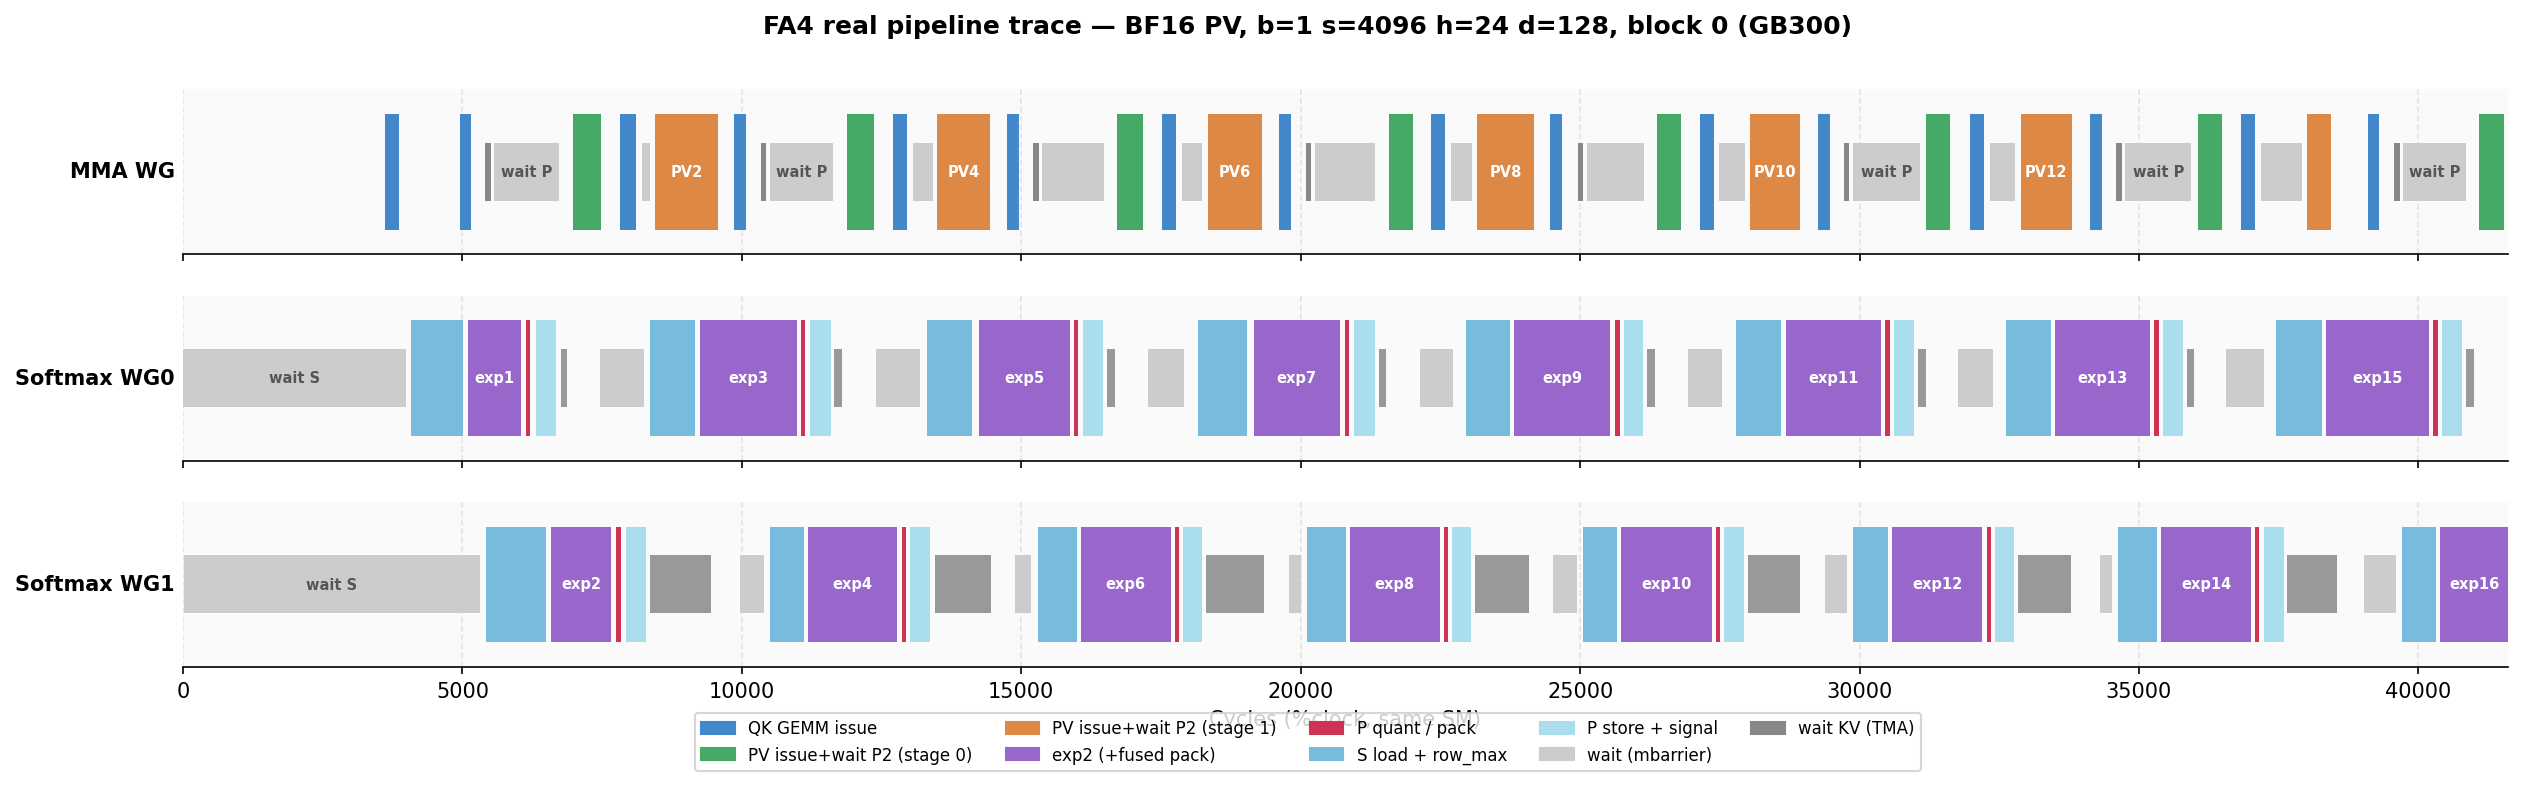
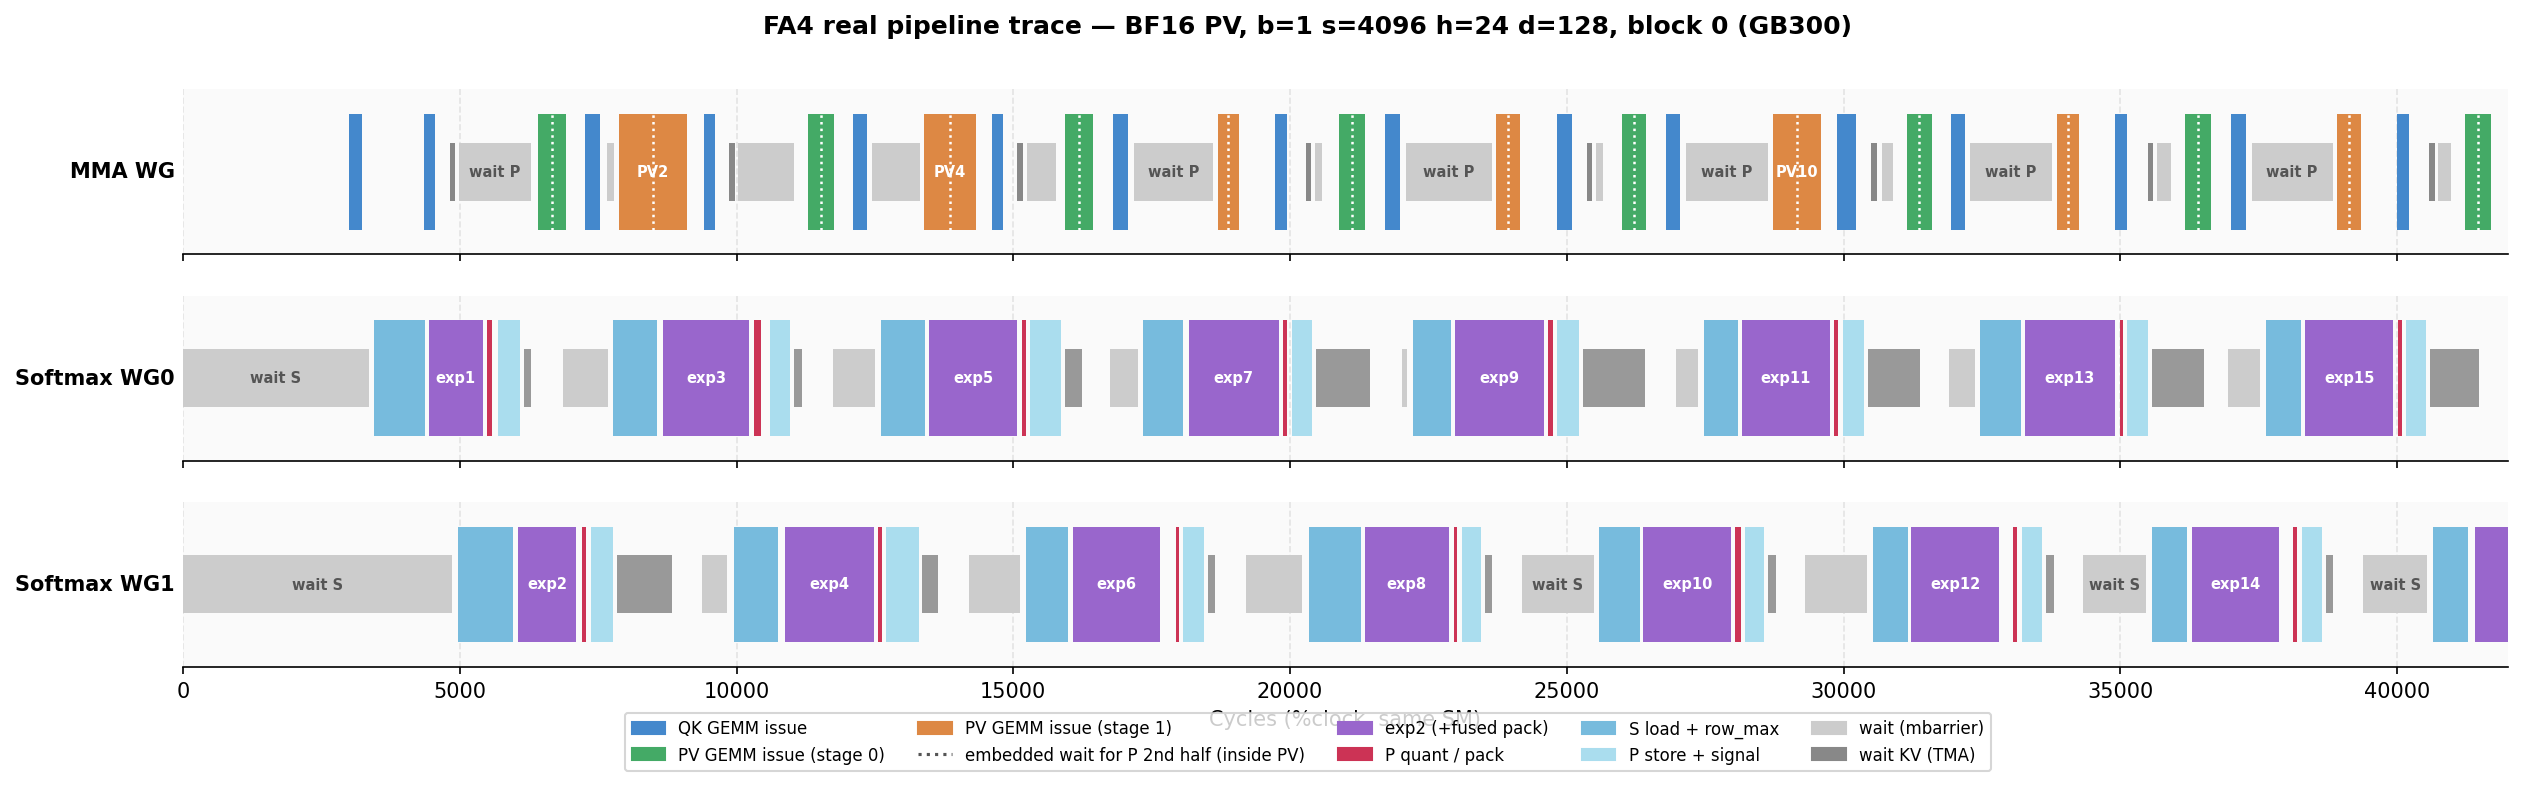
fix: trace render — PV bars keep plain labels, dotted mid-bar wait marker
PV legend reverts to "PV GEMM issue"; a white dotted divider at each PV
bar's midpoint marks the embedded wait for P's 2nd half (mbar_P_full_2
inside gemm_ptx_partial), with a legend entry explaining it.

diff --git a/flash_attn/cute/debug/trace_pipeline.py b/flash_attn/cute/debug/trace_pipeline.py
@@ -177,6 +177,13 @@ def render(spans_by_bg, block, output_path, title, start_iter, num_iters):
                 facecolor=color, edgecolor="none",
                 zorder=2 if is_wait else 3,
             ))
+            if grp == fa4_prof.GRP_MMA and evt == fa4_prof.EVT_PV_GEMM:
+                # Mid-bar dotted divider: the PV issue sequence embeds a wait
+                # for the 2nd half of P (mbar_P_full_2 in gemm_ptx_partial)
+                # roughly here — long PV bars are that wait, not a slower GEMM.
+                cx = vis_start - w0 + vis_dur / 2
+                ax.plot([cx, cx], [0.5 - h / 2, 0.5 + h / 2],
+                        linestyle=":", color="white", linewidth=1.2, zorder=5)
             # Label only when the bar is wide enough for the text
             # (~2550 usable px at figsize 20in x 150dpi).
             bar_px = vis_dur * 2550.0 / (w1 - w0)
@@ -191,13 +198,13 @@ def render(spans_by_bg, block, output_path, title, start_iter, num_iters):
     axes[-1].set_xlabel("Cycles (%clock, same SM)")
     fig.suptitle(title, fontsize=12, fontweight="bold")
 
+    from matplotlib.lines import Line2D
     legend = [
         mpatches.Patch(color="#4488CC", label="QK GEMM issue"),
-        # The PV issue sequence embeds a wait for the 2nd half of P
-        # (mbar_P_full_2 inside gemm_ptx_partial) — long PV bars mean the
-        # softmax WG was late storing P's second half, not a slower GEMM.
-        mpatches.Patch(color="#44AA66", label="PV issue+wait P2 (stage 0)"),
-        mpatches.Patch(color="#DD8844", label="PV issue+wait P2 (stage 1)"),
+        mpatches.Patch(color="#44AA66", label="PV GEMM issue (stage 0)"),
+        mpatches.Patch(color="#DD8844", label="PV GEMM issue (stage 1)"),
+        Line2D([0], [0], color="#555555", linestyle=":", linewidth=1.5,
+               label="embedded wait for P 2nd half (inside PV)"),
         mpatches.Patch(color="#9966CC", label="exp2 (+fused pack)"),
         mpatches.Patch(color="#CC3355", label="P quant / pack"),
         mpatches.Patch(color="#77BBDD", label="S load + row_max"),
